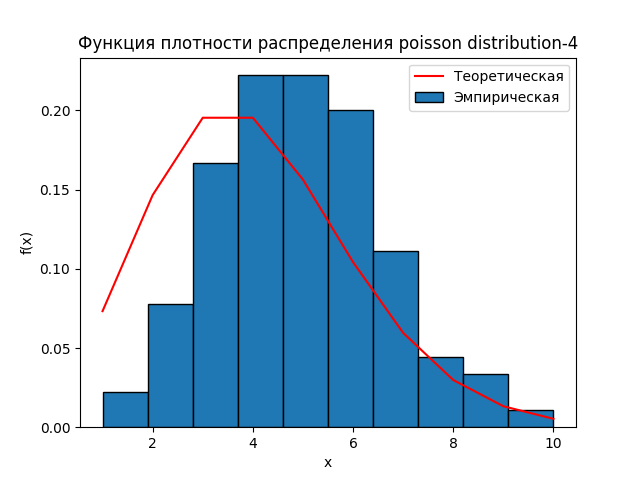
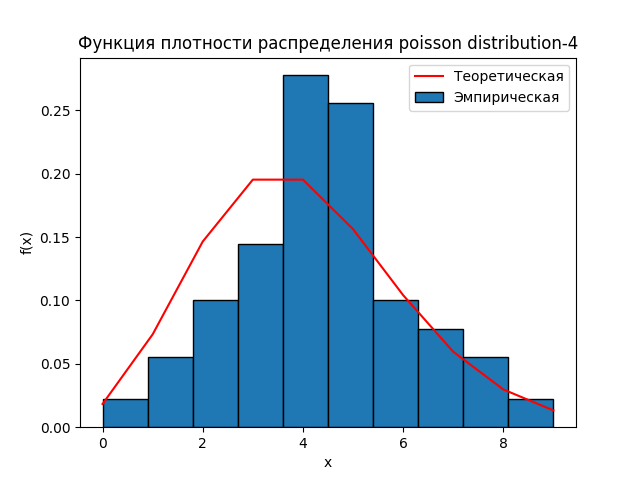
feat: add code for lab 4
- modify code in lab2
 - regenerate graphics for lab2

diff --git a/lab4/src/lab4.py b/lab4/src/lab4.py
@@ -1,0 +1,54 @@
+import random
+import math
+from numpy import argmin
+
+EPS = 0.0001
+T_A = 3.0902
+P0 = 0.999
+
+NUMBER_OF_PARTS_TYPES = 3
+n = int((T_A ** 2) * P0 * (1 - P0) / (EPS ** 2))
+MAX_REPAIR_PARTS = 10
+
+parts_amount_schema = [4, 2, 6]
+lambda_ = [40e-6, 10e-6, 80e-6]
+
+
+def prob_of_uptime(required_time, repair_parts):
+    failures_amount = 0
+    for _ in range(n):
+        time = []
+        for i in range(NUMBER_OF_PARTS_TYPES):
+            type_time = []
+            for __ in range(parts_amount_schema[i]):
+                type_time.append(-1 * math.log(random.random()) / lambda_[i])
+            for __ in range(repair_parts[i]):
+                min_time_index = argmin(type_time)
+                type_time[min_time_index] = type_time[min_time_index] - math.log(random.random()) / lambda_[i]
+            for j in range(parts_amount_schema[i]):
+                time.append(type_time[j])
+        if not logic_func_of_sys_efficiency(time, required_time):
+            failures_amount += 1
+    return 1 - failures_amount / n
+
+
+def logic_func_of_sys_efficiency(time, required_time):
+    return ((time[0] > required_time and time[1] > required_time or time[2] > required_time and time[3] > required_time) and
+            (time[4] > required_time and time[5] > required_time) and
+            (time[6] > required_time and time[7] > required_time or time[8] > required_time and time[9] > required_time or
+             time[10] > required_time and time[11] > required_time))
+
+
+if __name__ == '__main__':
+    needed_time = 8760
+    repair_parts = [0] * NUMBER_OF_PARTS_TYPES
+
+    for i in range(MAX_REPAIR_PARTS):
+        repair_parts[0] = i
+        for j in range(MAX_REPAIR_PARTS):
+            repair_parts[1] = j
+            for k in range(MAX_REPAIR_PARTS):
+                repair_parts[2] = k
+                p_value = prob_of_uptime(needed_time, repair_parts)
+                if p_value > P0:
+                    print(repair_parts, f"P = {p_value}, n = {sum(repair_parts)}")

diff --git a/lab2/src/LhW.py b/lab2/src/LhW.py
@@ -28,7 +28,7 @@ def irnbin(n, p) -> int:
 def irngeo_1(p) -> int:
     a = random.random()
     p_k = p
-    m = 0
+    m = 1
 
     while a >= p_k:
         a -= p_k
@@ -41,7 +41,7 @@ def irngeo_1(p) -> int:
 # geom_distribution_2
 def irngeo_2(p):
     a = random.random()
-    m = 0
+    m = 1
 
     while a > p:
         a = random.random()
@@ -62,12 +62,12 @@ def irnpoi(mu):
     else:
         a = random.random()
         p_k = math.exp(-mu)
-        m = 1
+        m = 0
 
         while a >= p_k:
+            m += 1
             a -= p_k
             p_k *= mu / m
-            m += 1
 
         return m
 
@@ -78,11 +78,11 @@ def irnpsn(mu):
         return random.normalvariate(mu, mu)
     else:
         p_k = random.random()
-        m = 1
+        m = 0
 
         while p_k >= math.exp(-mu):
-            p_k *= random.random()
             m += 1
+            p_k *= random.random()
 
         return m
 

diff --git a/lab2/src/lab2.py b/lab2/src/lab2.py
@@ -4,7 +4,6 @@ from LhW import *
 import matplotlib.pyplot as plt
 import numpy as np
 import mpmath
-from scipy.stats import chisquare
 
 absolute_path = '/'.join(os.path.dirname(__file__).split('/')[:-1])
 
@@ -243,7 +242,7 @@ if __name__ == '__main__':
     # # Пуассоновское распределение (2 алгоритма генерации)
     # task_4(irnpoi, 1)
     # task_4(irnpsn, 2)
-    #
+
     additional_task_4()
 
     plt.show()
